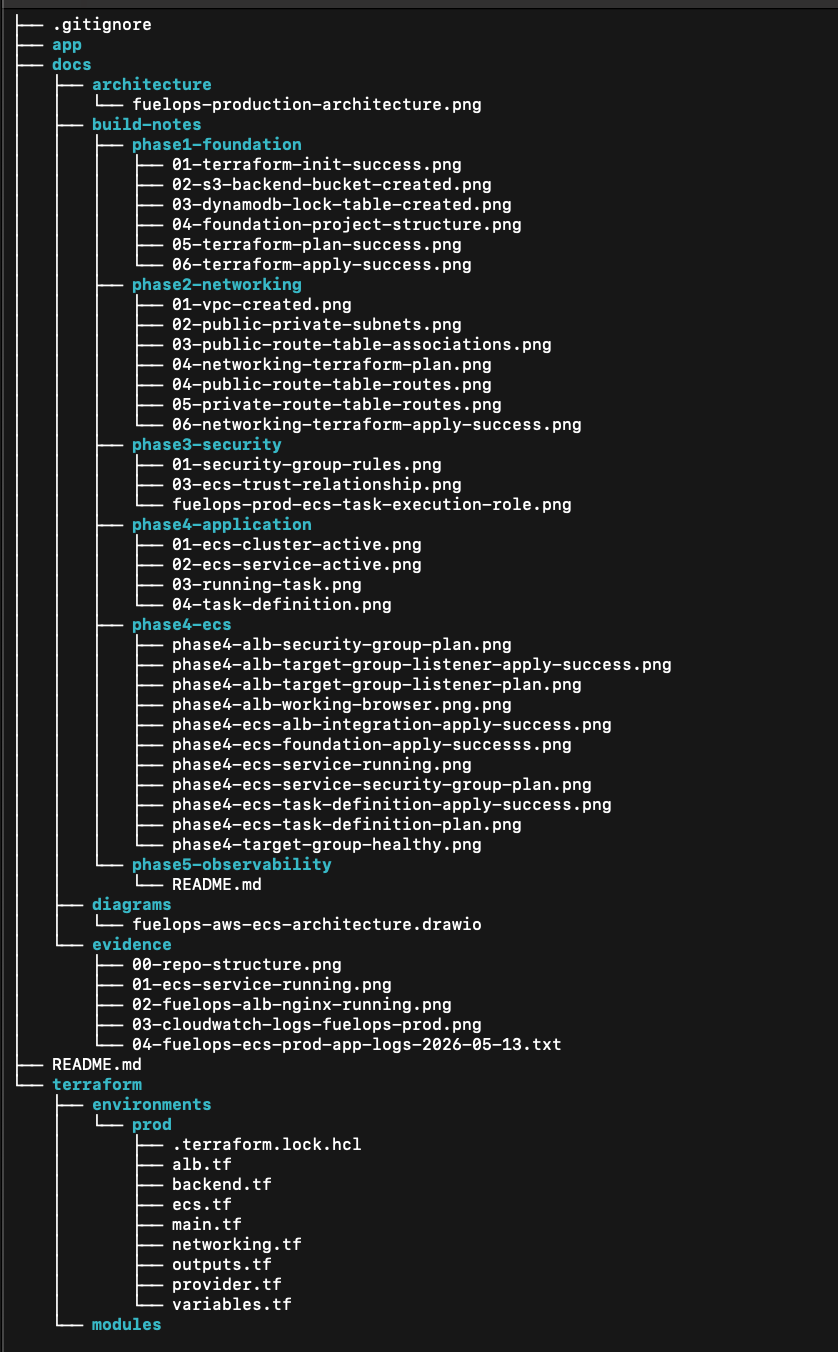
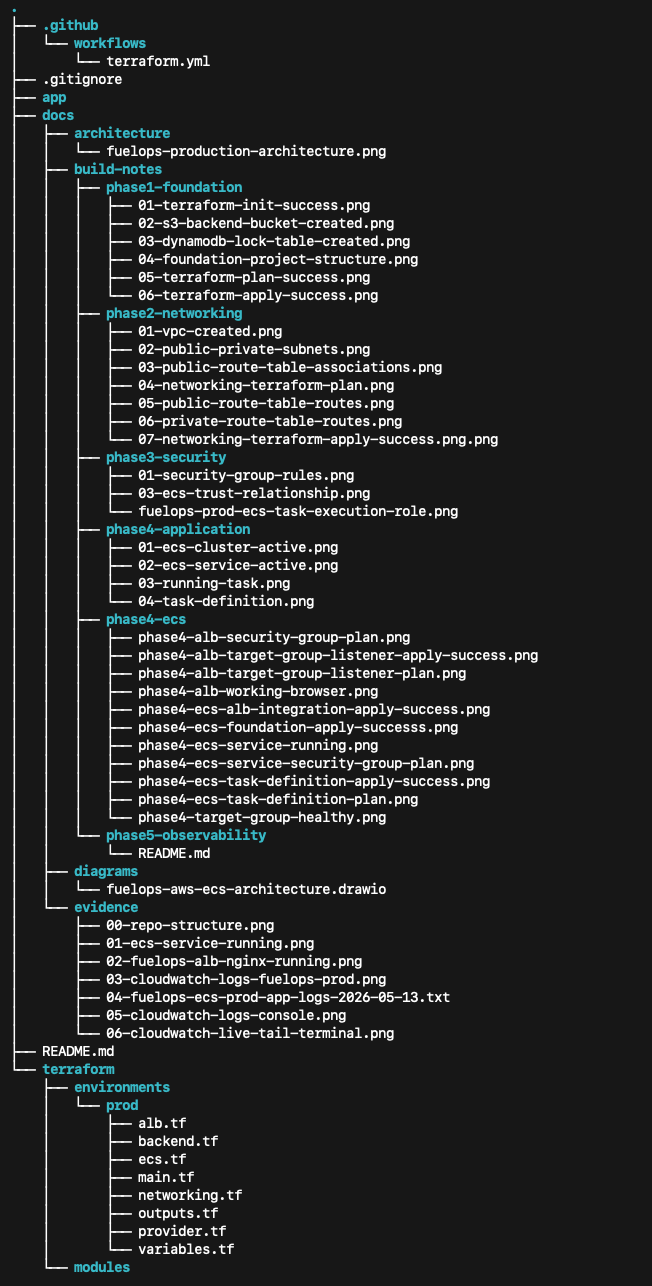
Finalize FuelOps README and documentation

Changed region(s): [[0.0, 0.0, 1.0, 0.9953]]

diff --git a/README.md b/README.md
@@ -130,33 +130,78 @@ terraform destroy
 ## Project structure
 
 ```text
-fuelops-ecs-platform/
-├── .github/
-│   └── workflows/
-├── app/
-├── docs/
-│   ├── architecture/
-│   │   └── fuelops-production-architecture.png
-│   ├── build-notes/
-│   │   ├── phase1-foundation/
-│   │   ├── phase2-networking/
-│   │   ├── phase3-security/
-│   │   ├── phase4-application/
-│   │   ├── phase4-ecs/
-│   │   └── phase5-observability/
-│   ├── diagrams/
-│   │   └── fuelops-aws-ecs-architecture.drawio
-│   └── evidence/
-│       ├── 00-repo-structure.png
-│       ├── 01-ecs-service-running.png
-│       ├── 02-cloudwatch-logs-fuelops-prod.png
-│       └── 03-fuelops-ecs-prod-app-logs-2026-05-13.txt
-├── terraform/
-│   ├── environments/
-│   │   └── prod/
-│   └── modules/
+.github
+│   └── workflows
+│       └── terraform.yml
 ├── .gitignore
-└── README.md
+├── app
+├── docs
+│   ├── architecture
+│   │   └── fuelops-production-architecture.png
+│   ├── build-notes
+│   │   ├── phase1-foundation
+│   │   │   ├── 01-terraform-init-success.png
+│   │   │   ├── 02-s3-backend-bucket-created.png
+│   │   │   ├── 03-dynamodb-lock-table-created.png
+│   │   │   ├── 04-foundation-project-structure.png
+│   │   │   ├── 05-terraform-plan-success.png
+│   │   │   └── 06-terraform-apply-success.png
+│   │   ├── phase2-networking
+│   │   │   ├── 01-vpc-created.png
+│   │   │   ├── 02-public-private-subnets.png
+│   │   │   ├── 03-public-route-table-associations.png
+│   │   │   ├── 04-networking-terraform-plan.png
+│   │   │   ├── 04-public-route-table-routes.png
+│   │   │   ├── 05-private-route-table-routes.png
+│   │   │   └── 06-networking-terraform-apply-success.png
+│   │   ├── phase3-security
+│   │   │   ├── 01-security-group-rules.png
+│   │   │   ├── 03-ecs-trust-relationship.png
+│   │   │   └── fuelops-prod-ecs-task-execution-role.png
+│   │   ├── phase4-application
+│   │   │   ├── 01-ecs-cluster-active.png
+│   │   │   ├── 02-ecs-service-active.png
+│   │   │   ├── 03-running-task.png
+│   │   │   └── 04-task-definition.png
+│   │   ├── phase4-ecs
+│   │   │   ├── phase4-alb-security-group-plan.png
+│   │   │   ├── phase4-alb-target-group-listener-apply-success.png
+│   │   │   ├── phase4-alb-target-group-listener-plan.png
+│   │   │   ├── phase4-alb-working-browser.png.png
+│   │   │   ├── phase4-ecs-alb-integration-apply-success.png
+│   │   │   ├── phase4-ecs-foundation-apply-successs.png
+│   │   │   ├── phase4-ecs-service-running.png
+│   │   │   ├── phase4-ecs-service-security-group-plan.png
+│   │   │   ├── phase4-ecs-task-definition-apply-success.png
+│   │   │   ├── phase4-ecs-task-definition-plan.png
+│   │   │   └── phase4-target-group-healthy.png
+│   │   └── phase5-observability
+│   │       └── README.md
+│   ├── diagrams
+│   │   └── fuelops-aws-ecs-architecture.drawio
+│   └── evidence
+│       ├── 00-repo-structure.png
+│       ├── 01-ecs-service-running.png
+│       ├── 02-fuelops-alb-nginx-running.png
+│       ├── 03-cloudwatch-logs-fuelops-prod.png
+│       ├── 04-fuelops-ecs-prod-app-logs-2026-05-13.txt
+│       ├── 05-cloudwatch-logs-console.png
+│       └── 06-cloudwatch-live-tail-terminal.png
+├── README.md
+└── terraform
+    ├── environments
+    │   └── prod
+    │       ├── .terraform.lock.hcl
+    │       ├── alb.tf
+    │       ├── backend.tf
+    │       ├── ecs.tf
+    │       ├── main.tf
+    │       ├── networking.tf
+    │       ├── outputs.tf
+    │       ├── provider.tf
+    │       └── variables.tf
+    └── modules
+
 ```
 
 This layout keeps the infrastructure easy to read and explain. Splitting resources into `networking.tf`, `alb.tf`, and `ecs.tf` makes the design more maintainable and helps reviewers quickly understand the responsibility of each file.
@@ -220,6 +265,8 @@ The repository is structured to support CI/CD workflows and automated infrastruc
 
 GitHub is used for version control and collaboration, while the `.github/workflows/` directory prepares the project for GitHub Actions-based automation.
 
+For improved security and modern CI/CD practices, GitHub Actions authentication was configured using AWS OpenID Connect (OIDC) role assumption instead of long-term AWS access keys stored as GitHub secrets. This approach reduces credential management risks and aligns with production-oriented cloud security practices.
+
 The platform is designed to support future automation such as:
 
 - Terraform validation pipelines
@@ -237,6 +284,9 @@ This project includes basic observability through Amazon CloudWatch Logs for the
 
 After deployment, the service was verified in the ECS console with `fuelops-prod-service` showing 1 desired task and 1 running task, confirming that the application was successfully deployed.
 
+
+After deployment, the application was successfully accessed through the Application Load Balancer (ALB) public DNS endpoint, confirming that traffic routing between the ALB and ECS Fargate service was functioning correctly.
+
 Application log output was then reviewed in CloudWatch Logs under the `/ecs/fuelops-prod` log group. The log stream showed timestamped HTTP `GET /` requests from the running container, confirming that the service was receiving traffic and writing logs as expected.
 
 ### Evidence files
@@ -247,8 +297,9 @@ The following deployment evidence and operational verification artifacts were ca
 |---|---|
 | `docs/evidence/00-repo-structure.png` | Repository structure and Terraform project organization |
 | `docs/evidence/01-ecs-service-running.png` | ECS service showing healthy running Fargate task |
-| `docs/evidence/02-cloudwatch-logs-fuelops-prod.png` | CloudWatch Logs showing application log events |
-| `docs/evidence/03-fuelops-ecs-prod-app-logs-2026-05-13.txt` | Downloaded ECS application log output from CloudWatch |
+| `docs/evidence/02-fuelops-alb-nginx-running.png` | Application Load Balancer successfully serving the application |
+| `docs/evidence/03-cloudwatch-logs-fuelops-prod.png` | CloudWatch Logs showing application log events |
+| `docs/evidence/04-fuelops-ecs-prod-app-logs-2026-05-13.txt` | Downloaded ECS application log output from CloudWatch |
 
 ## Key learning points
 
@@ -299,14 +350,25 @@ Terraform resources were separated into focused files such as:
 
 This structure improves readability and reflects how larger infrastructure repositories are commonly organized in production environments.
 
+## Deployment Validation
+
+The platform was validated after deployment using several operational verification steps:
+
+- Confirmed successful Terraform provisioning without resource errors.
+- Verified ECS service health with running Fargate tasks.
+- Tested public application access through the Application Load Balancer DNS endpoint.
+- Reviewed CloudWatch Logs to confirm application traffic and container logging behavior.
+- Verified networking flow between public ALB resources and private ECS workloads.
+- Confirmed GitHub Actions Terraform workflow execution using AWS OIDC authentication.
+
 ## Future improvements
 
 Possible next improvements for this platform include:
 
-- HTTPS listener with AWS Certificate Manager (ACM) integration on the ALB.
-- ECS service auto scaling based on CPU or memory.
-- A small sample frontend or API application to make the platform more visibly end-to-end.
-- Further module reuse and multi-environment expansion.
+- HTTPS/TLS termination using AWS Certificate Manager (ACM).
+- Infrastructure modularization for reusable multi-environment deployments.
+- Enhanced observability using CloudWatch dashboards and alarms.
+- Blue/green deployment workflows for ECS services.
 
 ## Interview Talking Points
 
@@ -352,8 +414,6 @@ Key areas that can be discussed during technical interviews include:
 ### Engineering Mindset
 
 This project emphasizes infrastructure readability, operational visibility, maintainability, and production-oriented AWS design patterns rather than only focusing on resource deployment.
-
-## Author
 
 ## Author
 